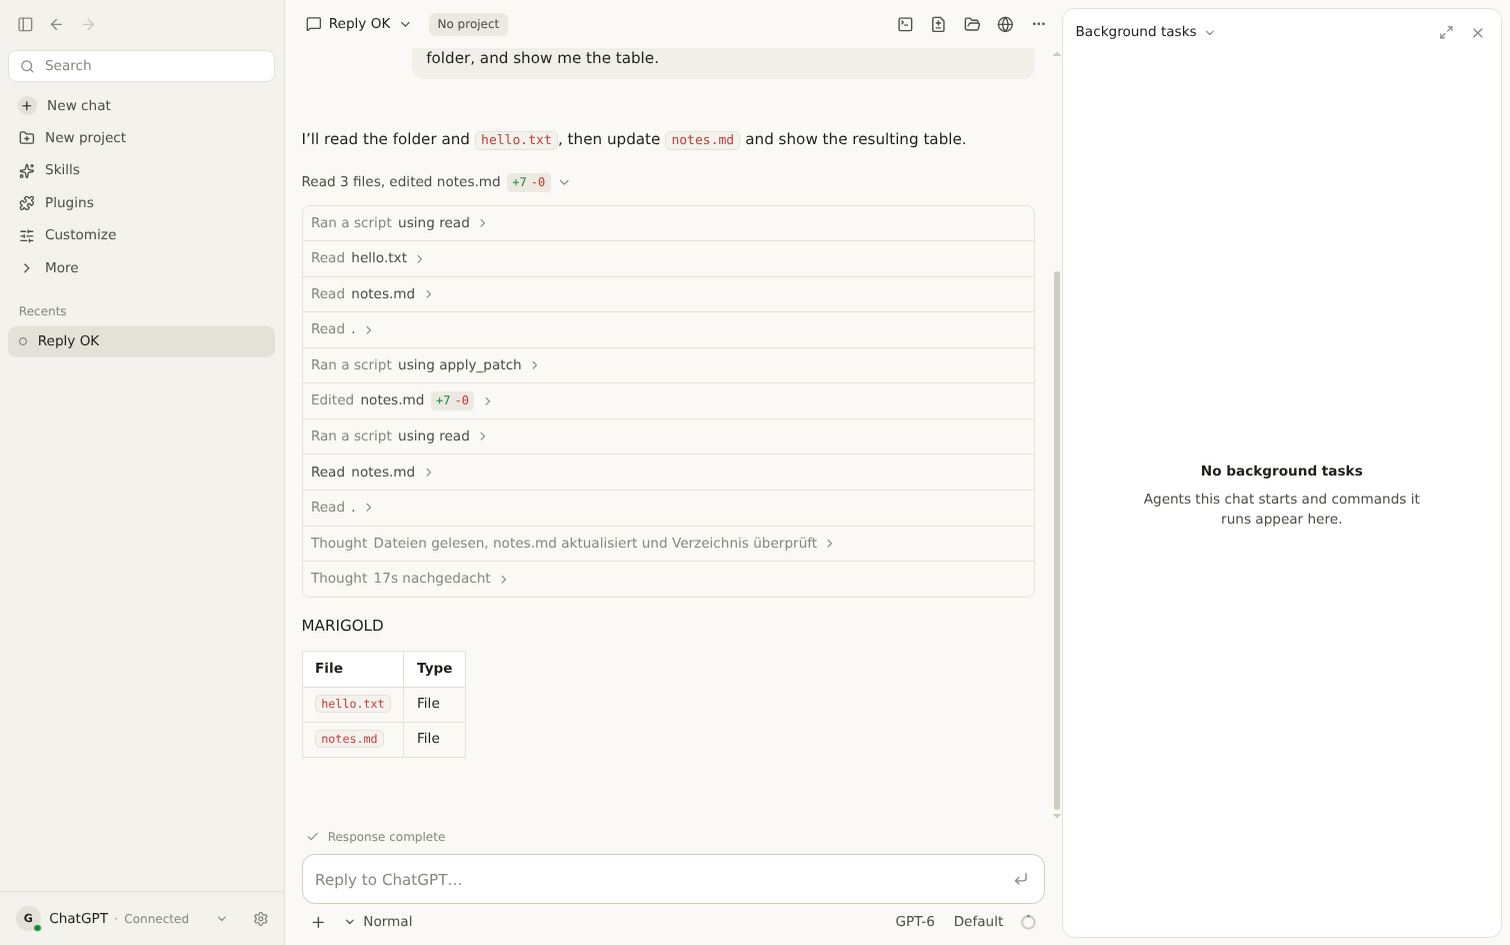
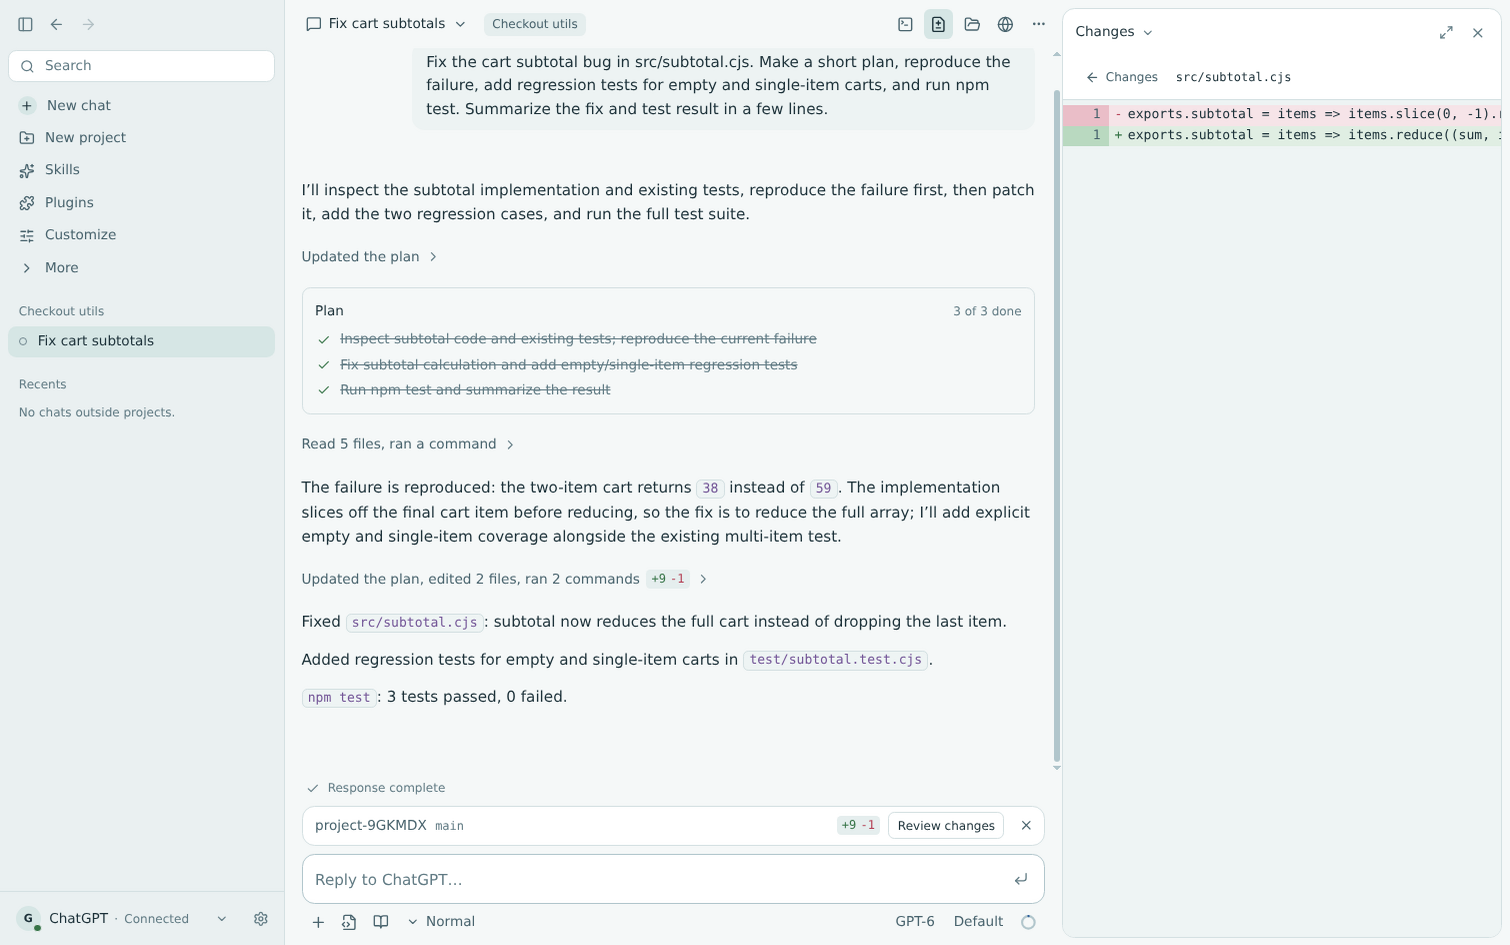
Refresh real coding workflow media and simplify contributor docs
Replace the README media with four screenshots and two dark recordings from one real GUI-to-CLI workflow. Compress the GIFs losslessly and verify every decoded frame is unchanged.

Put essential live-test instructions in CONTRIBUTING, remove the separate testing README, and record the rule against standalone testing and audit reports in AGENTS.md. Document the shared prompts, theme and consolidated command controls.

diff --git a/docs/cli.md b/docs/cli.md
@@ -18,7 +18,7 @@ Excerpts are bounded to 16,000 characters per file and 48,000 total. Truncated e
 the agent can read the rest with its tools. A missing path or invalid range leaves your draft
 available to edit. Write `@@name` to send a literal `@name` without reading a file.
 
-The same syntax works in `exec`, JSON mode and prompt templates:
+The same syntax works in the GUI composer, `exec`, JSON mode and prompt templates:
 
 ```sh
 ./scripts/creatine exec -C ./project 'Review @src/main.ts:10-40'
@@ -48,9 +48,12 @@ Review the current git diff. Focus on ${1:-correctness}.
 Read the relevant files, run appropriate checks and report concrete findings.
 ```
 
-Run `/reload`, then `/audit` or `/audit "API compatibility"`. `/templates` lists each
+Run `/context reload`, then `/audit` or `/audit "API compatibility"`. `/context templates` lists each
 command, its description and its file. Commands appear in completion. Templates also work
 as the initial prompt and with `creatine exec '/audit correctness'`.
+
+The GUI's **Prompts and skills** control lists the same project and personal templates.
+Template expansion, file excerpts and attachments are prepared once by the shared backend.
 
 Personal templates live in the app profile's `prompts/` folder. On Linux the default is
 `~/.config/Chat on Creatine/prompts/`; `--user-data` selects another profile. Project templates
@@ -74,9 +77,9 @@ shell commands:
 Ctrl+G opens the current draft in `$VISUAL`, then `$EDITOR`, defaulting to `vi` on Unix or
 Notepad on Windows. For a graphical editor, include its wait flag, such as `EDITOR='code --wait'`.
 Saving and closing returns the edited draft to the CLI without sending it. A failed editor
-keeps the original draft. `/editor` opens an empty draft if invoked as a command.
+keeps the original draft.
 
-Ctrl+V, Alt+V and `/paste` read the system clipboard. Images appear as pending attachments in
+Ctrl+V and Alt+V read the system clipboard. Images appear as pending attachments in
 the footer and can be sent alone or with text. Text enters the draft without sending it.
 `/attach clear` removes pending files.
 
@@ -91,16 +94,17 @@ Terminal shortcuts such as Ctrl+Shift+V may only paste text and cannot send imag
 - `creatine -r <id>` resumes an unambiguous session ID prefix; `-c` resumes the latest chat
   in the current folder.
 - `--name <title>` names a new or resumed chat. `/name <title>` renames it while working.
-- `/sessions <query>` filters chat titles and IDs; `/resume <query>` opens matching chats.
-- `/search <text>` searches past user and assistant messages and lets you resume a match.
+- `/resume --list <query>` filters chat titles and IDs; `/resume <query>` opens matching chats.
+- `/resume --search <text>` searches past user and assistant messages and lets you resume a match.
 - Up/Down recalls the current chat's recorded prompts after resuming.
 - Failed submissions return to the draft; pending attachments and shell context stay available.
 - `/queue edit <id>` edits a queued message. `/queue retry <id>` requeues a failed message
   with its original attachments and ID. It cannot resend an already sent message.
 
 Ctrl+P cycles through the account's models. Shift+Tab cycles the selected model's reasoning
-levels. Stop the active turn before changing models with these shortcuts. `/model` and `/effort`
-remain available for explicit selections.
+levels. These shortcuts work in both composers. Stop the active turn before changing models.
+Use `/model` for the picker or `/model <id> <effort>` for an explicit selection. Selections and
+defaults are validated and saved by the same backend action in both interfaces.
 
 ## Code review and project instructions
 
@@ -174,7 +178,7 @@ creatine mcp restart local
 creatine mcp remove local
 ```
 
-Inside a chat, `/mcp` accepts the same arguments. `/plugins` also accepts them. Both display
+Inside a chat, `/mcp` accepts the same arguments. It displays
 connection status and discovered tools, including disabled tools. `list --json` and `get <name>
 --json` produce machine-readable inspection records. Environment variable values are omitted.
 Use a server's full ID when names are ambiguous. Put global flags before the MCP command:
@@ -190,3 +194,31 @@ under **Connection**, then add it once in ChatGPT as **Chat on Creatine Plugins*
 configured connector suffix, if any). The Core connection alone does not expose external tools.
 Adding a server locally does not install an app into ChatGPT. ChatGPT may need its connector
 tool catalog refreshed before newly added tools appear.
+
+## A shorter command menu
+
+The CLI keeps 27 built-in slash commands. Related operations share an entry point:
+
+| Previous command | Current control |
+| --- | --- |
+| `/sessions`, `/search` | `/resume --list`, `/resume --search` |
+| `/templates`, `/reload` | `/context templates`, `/context reload` |
+| `/agents`, `/agents stop <id>` | `/tasks <worker-id>`, `/tasks stop <id>` |
+| `/effort` | `/model <id> <effort>` or Shift+Tab |
+| `/plugins` | `/mcp` |
+| `/connect`, `/disconnect`, `/logs`, `/browser` | `/status connect`, `/status disconnect`, `/status logs`, `/status browser` |
+| `/approve` | `/permissions approve [folder]` |
+| `/editor`, `/paste`, `/clear` | Ctrl+G, Ctrl+V/Alt+V, Ctrl+L |
+| `/quit` | `/exit` or Ctrl+D |
+| `/steer` | Send a message while a turn is running |
+| `/export` | Export from the GUI chat menu; save final answers with `creatine exec -o` |
+
+Removed names are available for your own prompt templates; they no longer appear in completion.
+
+## Shared appearance
+
+The Current palette uses teal controls, slate dark surfaces and cool light surfaces. It is
+shared by the CLI, desktop, embedded terminal and code viewer. Set the theme in GUI Appearance;
+the CLI follows that setting, and system mode uses the terminal's `COLORFGBG` when available.
+Existing terminal scrollback keeps the colors it was printed with; newly rendered rows follow
+the current theme. `NO_COLOR` disables CLI colors.

diff --git a/README.md b/README.md
@@ -10,16 +10,25 @@ login, projects, conversations and tools.
 ## Desktop
 
 Follow the conversation, inspect file changes and manage background tasks in one workspace.
+This real workflow fixes a cart subtotal bug, adds regression tests and runs the test suite.
 
 | Dark | Light |
 | --- | --- |
-| ![Chat with an expanded edit and the background tasks panel](docs/screenshots/chat-dark.png) | ![The finished answer, plan and agent with the Changes panel](docs/screenshots/chat-light.png) |
+| ![A cart subtotal fix and its diff in the dark desktop workspace](docs/screenshots/chat-dark.png) | ![The same tested fix in the light desktop workspace](docs/screenshots/chat-light.png) |
+
+![Fixing cart subtotals in the dark desktop workspace](docs/screenshots/gui.gif)
 
 ## Terminal
 
 Work from your project directory with streaming replies, file diffs and command output.
 
-![A task in the Chat on Creatine CLI](docs/screenshots/cli.gif)
+Continue the same chat from the terminal: add a fractional-price regression and verify it.
+
+| Dark | Light |
+| --- | --- |
+| ![The coding CLI adds and verifies a regression test in dark mode](docs/screenshots/cli-dark.png) | ![The same coding workflow in the light CLI](docs/screenshots/cli-light.png) |
+
+![Adding a cart regression test in the dark coding CLI](docs/screenshots/cli.gif)
 
 ## Download
 
@@ -71,15 +80,18 @@ includes its output with your next message; `!!npm test` keeps it local. `/conte
 pending shell output and `/context clear` discards it.
 
 Ctrl+G opens your draft in `$VISUAL` or `$EDITOR`. Ctrl+P cycles account models and Shift+Tab
-cycles reasoning levels. Paste clipboard images with Ctrl+V, Alt+V or `/paste`; on Linux
+cycles reasoning levels. Paste clipboard images with Ctrl+V or Alt+V; on Linux
 Wayland the CLI reads the native clipboard through `wl-paste` when available (included in
 `nix develop`). Terminal paste shortcuts such as Ctrl+Shift+V generally send only text.
 
-Add reusable prompt commands as Markdown files in `.creatine/prompts/`, then `/reload`.
-Use `/templates` to inspect them, `/name` to label a chat, `/sessions <query>` to find it,
-and `/search <text>` to search past messages. `creatine -r` opens the session picker;
+Add reusable prompt commands as Markdown files in `.creatine/prompts/`, then `/context reload`.
+Use `/context templates` to inspect them, `/name` to label a chat, `/resume --list <query>` to find it,
+and `/resume --search <text>` to search past messages. `creatine -r` opens the session picker;
 `creatine -c` continues the latest chat in the current folder. See [CLI workflows](docs/cli.md)
 for templates, session controls and recovery.
+
+The GUI accepts the same `@file` syntax and prompt commands through **Prompts and skills**.
+Both interfaces use the shared Current palette and the same model defaults, queue and Stop behavior.
 
 Use `creatine review --base main` or `/review` for a code review, `/init` to create project
 instructions, and `creatine exec -o answer.md "..."` to save a final answer. The GUI offers the
@@ -92,7 +104,7 @@ same review scopes and instruction task under **Coding workflows** beside attach
 ```sh
 npm run dev         # electron-vite with HMR
 npm run verify      # repository rules, typecheck, tests, build
-npm run test:live   # the real app against your signed-in ChatGPT account (test/live/README.md)
+npm run test:live   # the real app against your signed-in ChatGPT account
 npm run dist        # installers for this platform into release/ (after npm run tunnel-client)
 ```
 

diff --git a/AGENTS.md b/AGENTS.md
@@ -19,6 +19,10 @@ place, and often removes more than it adds.
   files. Never leave commented-out code or `TODO`/`FIXME` markers; open an issue instead.
 - **Stay in scope.** Do not reformat, rename or "tidy" code your change does not need. A
   focused rewrite of the area you are fixing is fine; an unrelated redesign is a separate change.
+- **Keep documentation minimal.** Do not add standalone testing guides, audit reports or
+  implementation reports. Put essential instructions in the existing README or CONTRIBUTING.
+  Generated test logs, captures and measurements belong in the ignored `live-results/` folder;
+  publish only screenshots and recordings the README actually uses.
 
 ## Code style
 
@@ -41,11 +45,12 @@ Write code that reads like the code around it: its naming, idioms and comment de
 
 ### Renderer
 
-- Colors, spacing, radii and shadows come from `src/renderer/styles/tokens.css`. No raw colors
-  in any other stylesheet: add a token (for both themes) instead.
+- Colors, spacing, radii and shadows come from `src/renderer/styles/tokens.css`. Palette values
+  are owned by `src/shared/palette.json`, which the CLI also reads. Run `node scripts/theme.mjs`
+  after changing them; checks reject stale generated CSS. No raw colors in other stylesheets.
 - Reuse the shared primitives (`Popover`, `Menu`, `MenuButton`, `InlineEdit`, `ConfirmDialog`,
   `Banner`, toasts) and lucide icons before writing new ones.
-- Keep the Claude-desktop look: quiet controls, one accent, prose-first timeline, no decoration
+- Keep quiet controls, one accent and a prose-first timeline, with no decoration
   that carries no information.
 - Every action needs an accessible name; keyboard and screen-reader use must keep working.
 
@@ -66,7 +71,7 @@ is noise, and noise is not free: it slows every run and hides the tests that cou
 - No `.only`, `.skip` or `.todo` in committed tests.
 - Changes to the page driver, router or stream parser need a check against a signed-in ChatGPT
   session as well; unit tests cannot see what chatgpt.com actually sends. `npm run test:live`
-  runs those checks and keeps screenshots and logs (see `test/live/README.md`).
+  runs those checks and keeps screenshots and logs (see `CONTRIBUTING.md`).
 
 ## Privacy
 

diff --git a/CONTRIBUTING.md b/CONTRIBUTING.md
@@ -19,12 +19,18 @@ On NixOS run everything inside `nix develop`.
 - One logical change per pull request, rebased on `main`.
 - `npm run verify` passes locally; CI runs it on Linux, macOS and Windows.
 - The description says what changed, why, and how you checked it. When the page driver, router,
-  stream parser or an interface changed, include `npm run test:live` (see
-  [test/live/README.md](test/live/README.md)).
+  stream parser or an interface changed, include `npm run test:live`.
+
+Quit the app before live tests; they use your signed-in account and configured tunnel. The
+harness copies the profile into a private temporary folder and uses a fresh project. Local
+settings and history stay unchanged; real ChatGPT conversations count against account usage.
+Results stay in the ignored `live-results/` folder. On Linux, use `xvfb-run -a npm run test:live`
+for a headless run. Pass a file to run one scenario, for example
+`npm run test:live -- test/live/performance.live.ts`.
 
 ## Releases
 
-1. Refresh the README images with `LIVE_DOCS=1 npm run test:live -- test/live/interface.live.ts`
+1. Refresh the README images with `LIVE_DOCS=1 npm run test:live -- test/live/documentation.live.ts`
    when either interface changed visibly.
 2. Move the `Unreleased` notes in [CHANGELOG.md](CHANGELOG.md) under a new version heading and
    set the version in `package.json`.
